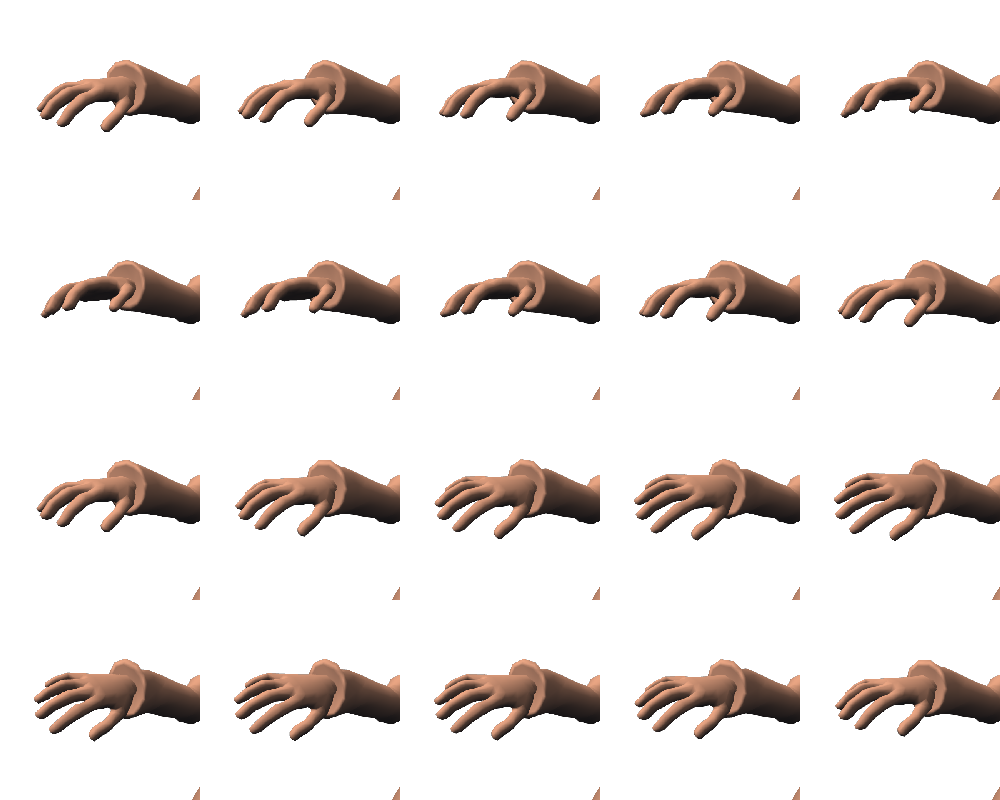
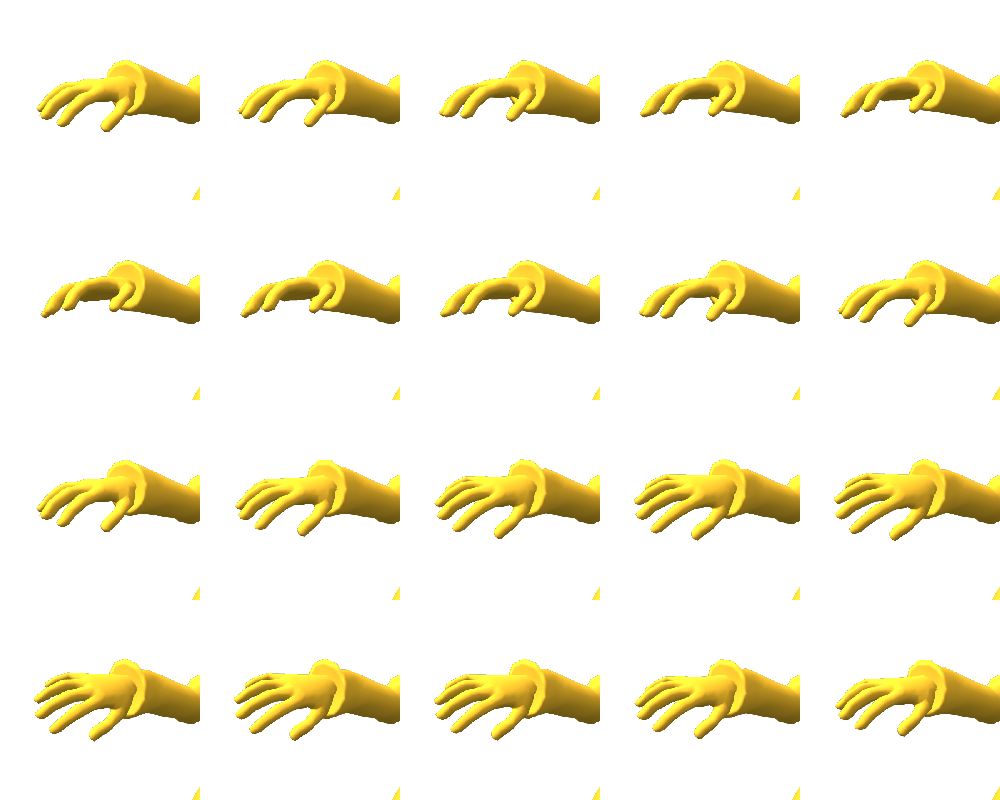
DSD: conversation-style signs + yellow problem hand
Surface hand-signal scenes now read as a conversation: the instructor's sign
floats above the right diver, the player's reply above the left diver, and the
left diver's sign is mirrored so it looks like the other hand. Underwater signs
stay centred. The 3D problem/so-so hand is recoloured emoji-yellow to match the
emoji signs.

Claude-Session: https://claude.ai/code/session_01UNYvHyfaNYs9J4LREhPeXf

diff --git a/games/discover-scuba/index.html b/games/discover-scuba/index.html
@@ -51,11 +51,17 @@
   #trimM{bottom:156px} #trimM .bar>i{background:linear-gradient(90deg,#3bd46a,#c7ff3b)}
 
   /* instructor signal bubble */
-  #signal{position:absolute;left:50%;top:88px;transform:translateX(-50%);display:none;z-index:6;text-align:center}
+  #signal{position:absolute;left:50%;top:88px;transform:translateX(-50%);display:none;z-index:6;text-align:center;transition:left .25s,top .25s}
   #signal.on{display:block}
+  #signal.rside{left:66%;top:6px}                   /* floating above the instructor's (right diver) head */
+  #signal.rside .ic{font-size:56px}
+  #signal.rside canvas{width:74px!important;height:74px!important}
   #signal .ic{font-size:72px;filter:drop-shadow(0 4px 8px rgba(0,0,0,.5))}
   #signal .cap{font-weight:900;font-size:13px;background:rgba(4,20,30,.7);border-radius:20px;padding:4px 12px;display:inline-block;margin-top:2px}
   #diversign{position:absolute;left:50%;top:42%;transform:translateX(-50%);display:none;z-index:7;text-align:center;pointer-events:none}
+  #diversign.lside{left:38%;top:6px}                /* floating above the player's (left diver) head */
+  #diversign.lside canvas{width:74px!important;height:74px!important}
+  #diversign.lside .ic{transform:scaleX(-1)}        /* mirror so the left diver signs with the other hand */
   #diversign.on{display:block}
   #diversign .ic{font-size:96px;filter:drop-shadow(0 4px 10px rgba(0,0,0,.55))}
   #diversign .cap{font-weight:900;font-size:14px;color:#04202e;background:#ffd23c;border-radius:20px;padding:5px 16px;display:inline-block;margin-top:2px;box-shadow:0 3px 0 #a8701c}
@@ -475,7 +481,8 @@ function tickSigns(t){ for(let i=_activeSigns.length-1;i>=0;i--){ const c=_activ
   const x=c._x; x.clearRect(0,0,300,300); (SIGNDRAW[c._kind]||SIGNDRAW.problem)(x,t); } }
 // big on-screen READOUT of the sign the DIVER is making (animated)
 function diverSign(kind,cap){ const el=$('diversign'); if(!kind){ el.classList.remove('on'); return; }
-  el.innerHTML='<div class="ic"></div><div class="cap">'+cap+'</div>'; el.querySelector('.ic').appendChild(makeSignCanvas(kind,124)); el.classList.add('on'); }
+  el.innerHTML='<div class="ic"></div><div class="cap">'+cap+'</div>'; el.querySelector('.ic').appendChild(makeSignCanvas(kind,124));
+  el.classList.toggle('lside', !V.underwater); el.classList.add('on'); }   // player = left diver on the surface
 function showChapterTitle(k,t){ chapterEl.innerHTML='<div class="k">'+k+'</div><div class="t">'+t+'</div>'; chapterEl.classList.add('on'); setTimeout(()=>chapterEl.classList.remove('on'),3200); }
 function setSurface(frac){ surfaceEl.style.height=(frac*100)+'%'; }
 function particles(n,spread,color,size,y){
@@ -563,7 +570,7 @@ function setMask(on){ V.maskOn=on; maskEl.classList.toggle('on',on); }
 function setWater(f){ V.water=f; waterEl.style.height=(f*46)+'%'; } // fills up to mask centre
 function showSignal(kind,cap){ if(!kind){ signalEl.classList.remove('on'); V.signal=null; return;}
   const ic=signalEl.querySelector('.ic'); ic.innerHTML=''; ic.appendChild(makeSignCanvas(kind,100));
-  signalEl.querySelector('.cap').textContent=cap; signalEl.classList.add('on'); }
+  signalEl.querySelector('.cap').textContent=cap; signalEl.classList.toggle('rside', !V.underwater); signalEl.classList.add('on'); }   // instructor = right diver on the surface
 function doFlash(){ flash.style.transition='none'; flash.style.opacity='.85'; requestAnimationFrame(()=>{ flash.style.transition='opacity .5s'; flash.style.opacity='0'; }); }
 
 /* ---------- action buttons + promise flow ---------- */